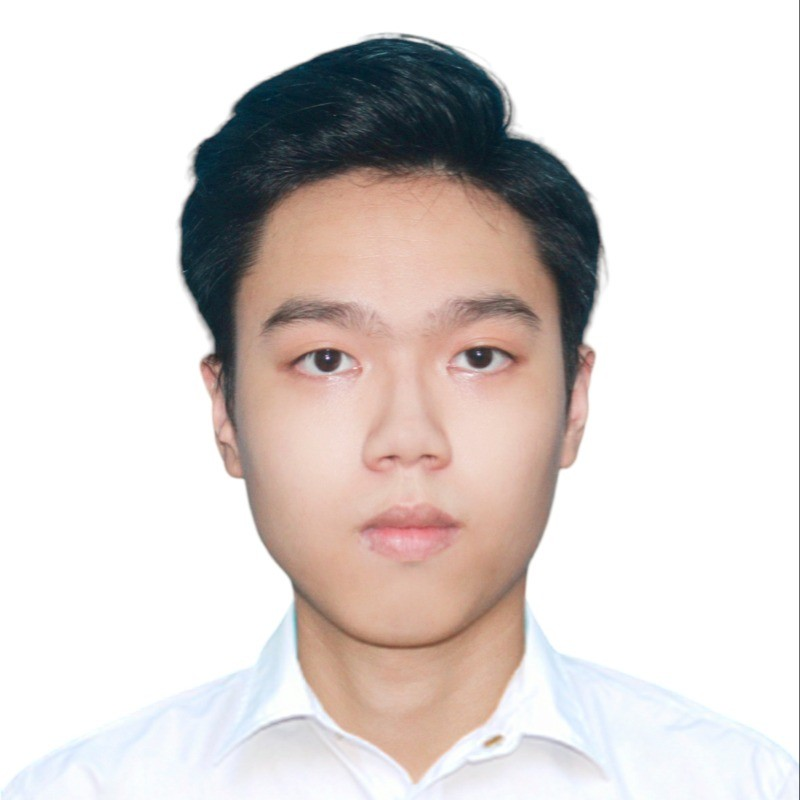
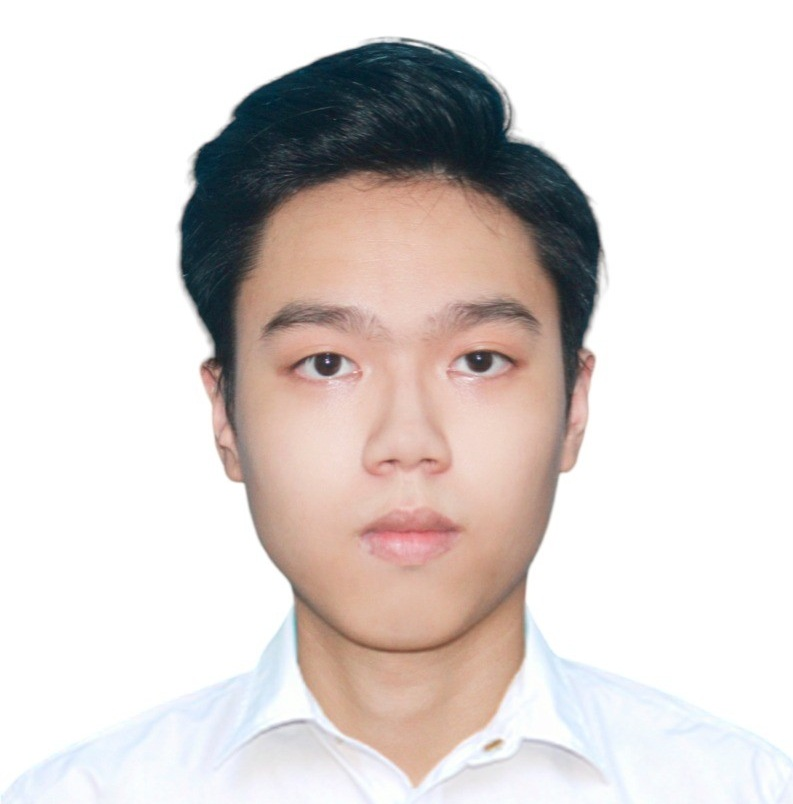
Change the profile picture and modify styling for the about page

diff --git a/docs/about.html b/docs/about.html
@@ -157,8 +157,8 @@ ul.task-list li input[type="checkbox"] {
 <p>I am Hoang Son Lai, a motivated individual with a strong academic background in finance and ongoing postgraduate studies in Business Analytics at Monash University. I am dedicated to continuous learning and growth, striving every day to strengthen both my technical and professional capabilities. My experiences in finance, insurance, and audit have provided me with practical insights and a deep appreciation for the value of data-driven decision-making. I aim to continue building on these experiences by applying my skills with curiosity, adaptability, and a commitment to making a meaningful contribution.</p>
 <hr>
 </section>
-<section id="education" class="level2">
-<h2 data-anchor-id="education">Education</h2>
+<section id="education" class="level3">
+<h3 data-anchor-id="education">Education</h3>
 <p><strong>Monash University</strong></p>
 <p><em>Master’s degree, Business Analytics</em></p>
 <p>Melbourne, Australia | Mar 2025 - Dec 2026</p>
@@ -167,8 +167,8 @@ ul.task-list li input[type="checkbox"] {
 <p>Hanoi, Viet Nam | Sep 2020 - Aug 2024</p>
 <hr>
 </section>
-<section id="experience" class="level2">
-<h2 data-anchor-id="experience">Experience</h2>
+<section id="experience" class="level3">
+<h3 data-anchor-id="experience">Experience</h3>
 <p><strong>Bao Viet Insurance Company</strong></p>
 <p><em>Insurance Intern</em></p>
 <p>Hanoi, Viet Nam | Oct 2024 - Dec 2024</p>
@@ -178,6 +178,35 @@ ul.task-list li input[type="checkbox"] {
 <p><strong>RSM Vietnam Company</strong></p>
 <p><em>Audit Intern</em></p>
 <p>Hanoi, Viet Nam | Jul 2023 - Aug 2023</p>
+<style>
+  .quarto-about-trestles .about-left,
+  .quarto-about-trestles .about-contents {
+    background-color: #eaf2ff !important; 
+  }
+  .quarto-about-trestles .about-entity {
+    padding: 0 !important;
+    box-shadow: 0 4px 12px rgba(0,0,0,.08) !important;
+  }
+  .quarto-about-trestles .about-left > .about-image,
+  .quarto-about-trestles .about-left > .about-name,
+  .quarto-about-trestles .about-left > .about-links,
+  .quarto-about-trestles .about-contents {
+      padding: 2.5rem !important;
+  }
+  .quarto-about-trestles .about-image img {
+    border-radius: 50% !important;
+    width: 220px !important;
+    height: 220px !important;
+    object-fit: cover !important;
+    border: 6px solid white !important;
+    box-shadow: 0 4px 12px rgba(0,0,0,.1) !important;
+  }
+  .quarto-about-trestles .about-name,
+  .quarto-about-trestles .about-contents h3,
+  .quarto-about-trestles .about-contents h2 {
+    color: #0056b3 !important;
+  }
+</style>
 
 
 </section>

diff --git a/docs/styles.css b/docs/styles.css
@@ -138,3 +138,29 @@ body.page-index .page-header {
 body.page-listing h1.title {
   display: none;
 }
+
+/*
+  STYLING FOR ABOUT PAGE (trestles template)
+*/
+
+/* Create the blue background card for the parent container. */
+.quarto-about-trestles .about-entity {
+  background-color: #eaf2ff !important;
+  /* border-radius: 25px !important; <-- REMOVED */
+  padding: 2.5rem !important;
+  box-shadow: 0 4px 12px rgba(0,0,0,.08) !important;
+}
+
+/*Make the background of the child columns transparent
+  to reveal the blue background of the parent.*/
+.quarto-about-trestles .about-left,
+.quarto-about-trestles .about-contents {
+  background: none !important;
+  border: none !important;
+}
+
+/* Turn the subheadings blue. */
+.quarto-about-trestles .about-contents h2,
+.quarto-about-trestles .about-contents h3 {
+  color: #0056b3 !important;
+}

diff --git a/styles.css b/styles.css
@@ -138,3 +138,29 @@ body.page-index .page-header {
 body.page-listing h1.title {
   display: none;
 }
+
+/*
+  STYLING FOR ABOUT PAGE (trestles template)
+*/
+
+/* Create the blue background card for the parent container. */
+.quarto-about-trestles .about-entity {
+  background-color: #eaf2ff !important;
+  /* border-radius: 25px !important; <-- REMOVED */
+  padding: 2.5rem !important;
+  box-shadow: 0 4px 12px rgba(0,0,0,.08) !important;
+}
+
+/*Make the background of the child columns transparent
+  to reveal the blue background of the parent.*/
+.quarto-about-trestles .about-left,
+.quarto-about-trestles .about-contents {
+  background: none !important;
+  border: none !important;
+}
+
+/* Turn the subheadings blue. */
+.quarto-about-trestles .about-contents h2,
+.quarto-about-trestles .about-contents h3 {
+  color: #0056b3 !important;
+}
